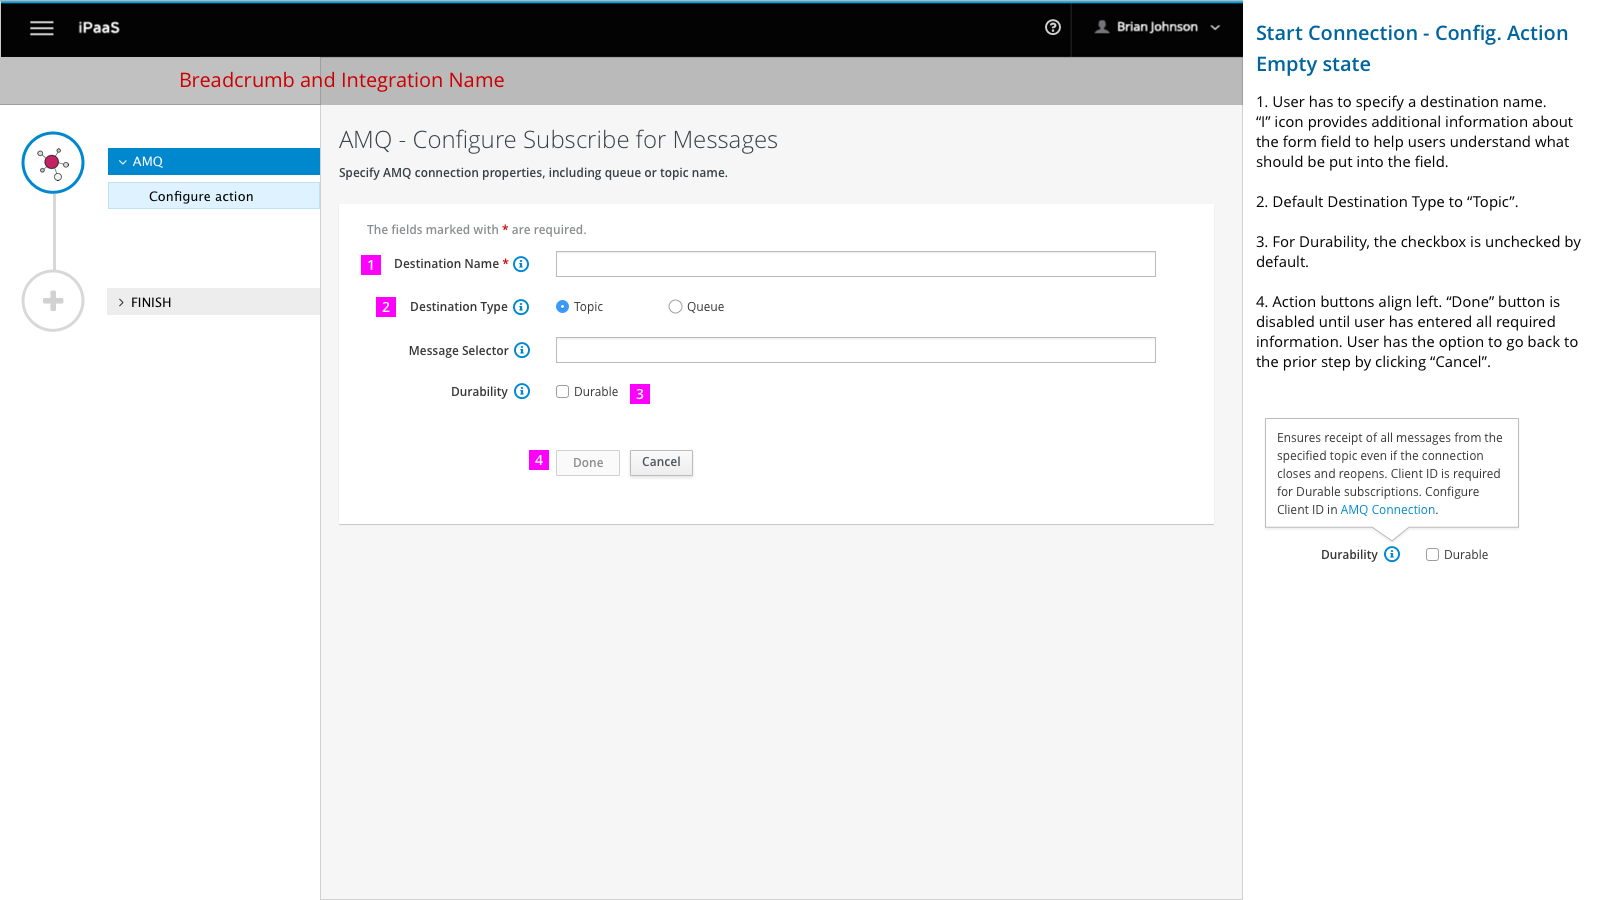
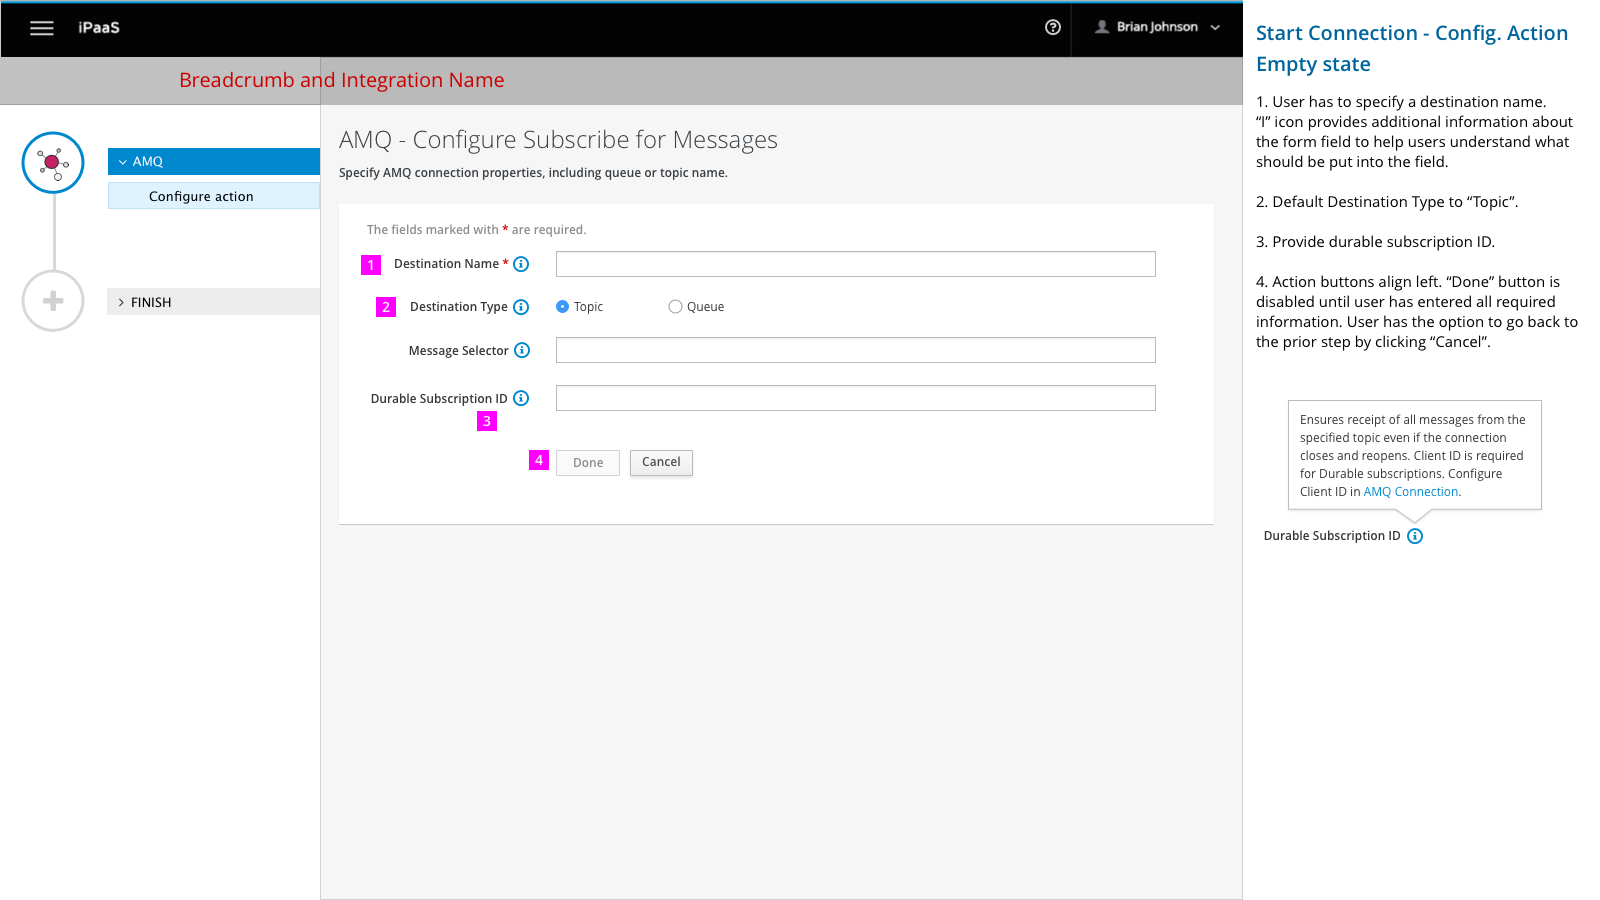
update amq ux design to include SSL protocol settings, update durable subscription id field

diff --git a/ux/designs/amq/amq.md b/ux/designs/amq/amq.md
@@ -22,9 +22,19 @@ This design covers the following workflows:
 
 4. Once all required field is filled. The “Next” button becomes active for users to proceed to the next step.
 
-See PatternFly “Help on Forms” for more:
-http://www.patternfly.org/pattern-library/forms-and-controls/help-on-forms/#/design
+    See PatternFly “Help on Forms” for more:
+    http://www.patternfly.org/pattern-library/forms-and-controls/help-on-forms/#/design
 
+
+![Image of configure connection ssl](img/AMQ_configureConnection-ssl.png)
+
+1.	If users type in a Broker URL with a “ssl:” substring, display the security settings section.
+
+2.	“Skip Certificate” is a boolean checkbox.
+
+3.	 Both “Broker Certificate” and “Client Certificate” are text areas.
+
+4.	 Users can expand the text areas.
 
 ![Image of name connection](img/AMQ_nameConnection.png)
 
@@ -48,15 +58,15 @@ User select AMQ connection as the start connection.
 
 2. Default Destination Type to “Topic”.  
 
-3. For Durability, the checkbox is unchecked by default.
+3. Provide durable subscription ID.
 
 4. Action buttons align left. “Done” button is disabled until user has entered all required information. User has the option to go back to the prior step by clicking “Cancel”.
 
 ![Image of AMQ start connection configure action durable](img/AMQ_integration_startConnection_configAction_durable.png)
 
-1. If user selected “Durable”, the field “Durable Subscription ID” appears and becomes available.
+1. Users fill in Durable Subscription ID.
 
-2. “Done” action button becomes active.  
+2. “Done” action button becomes active.   
 
 
 ## Create integration with AMQ as finish connection
